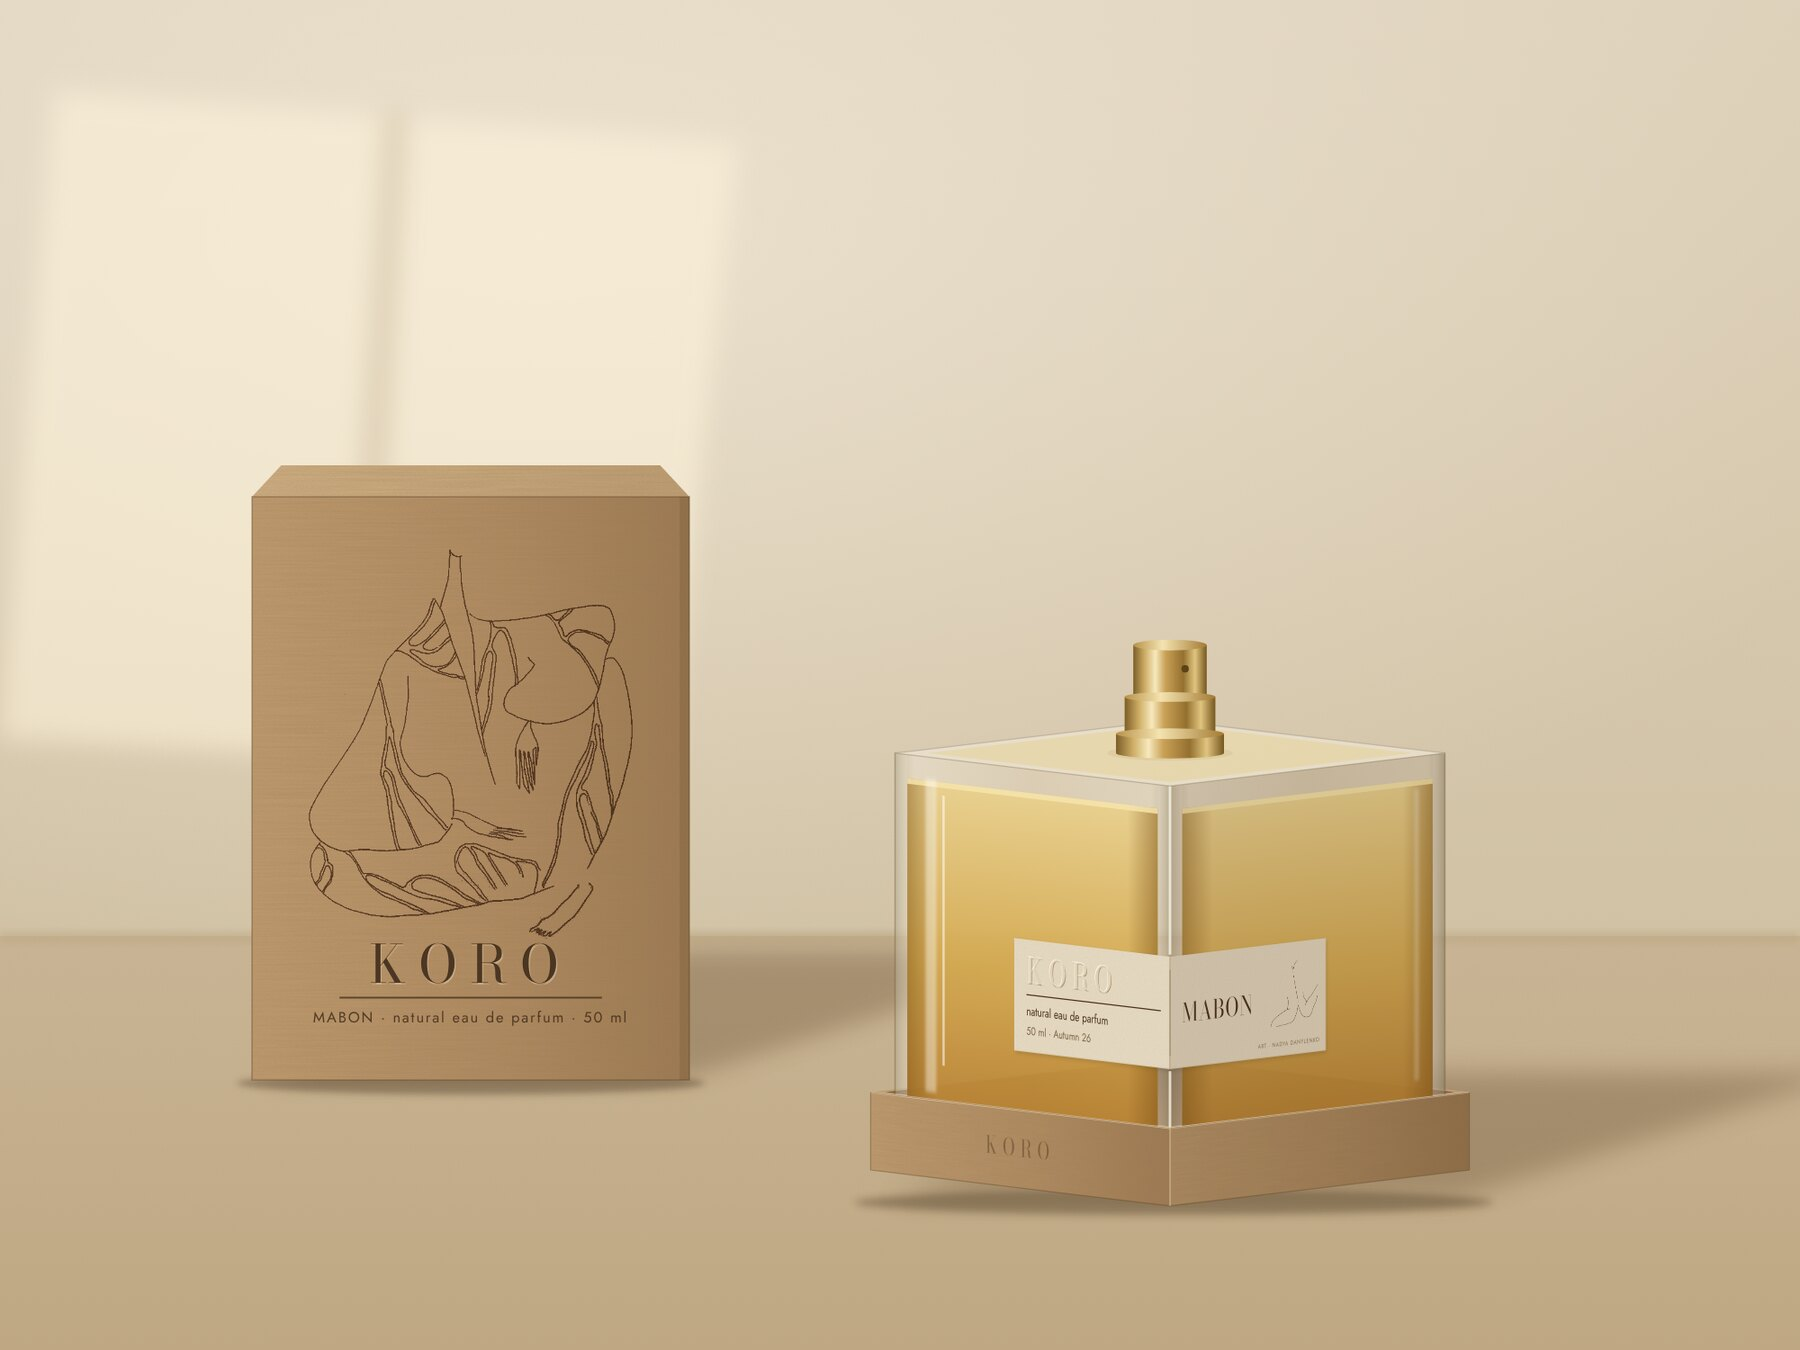
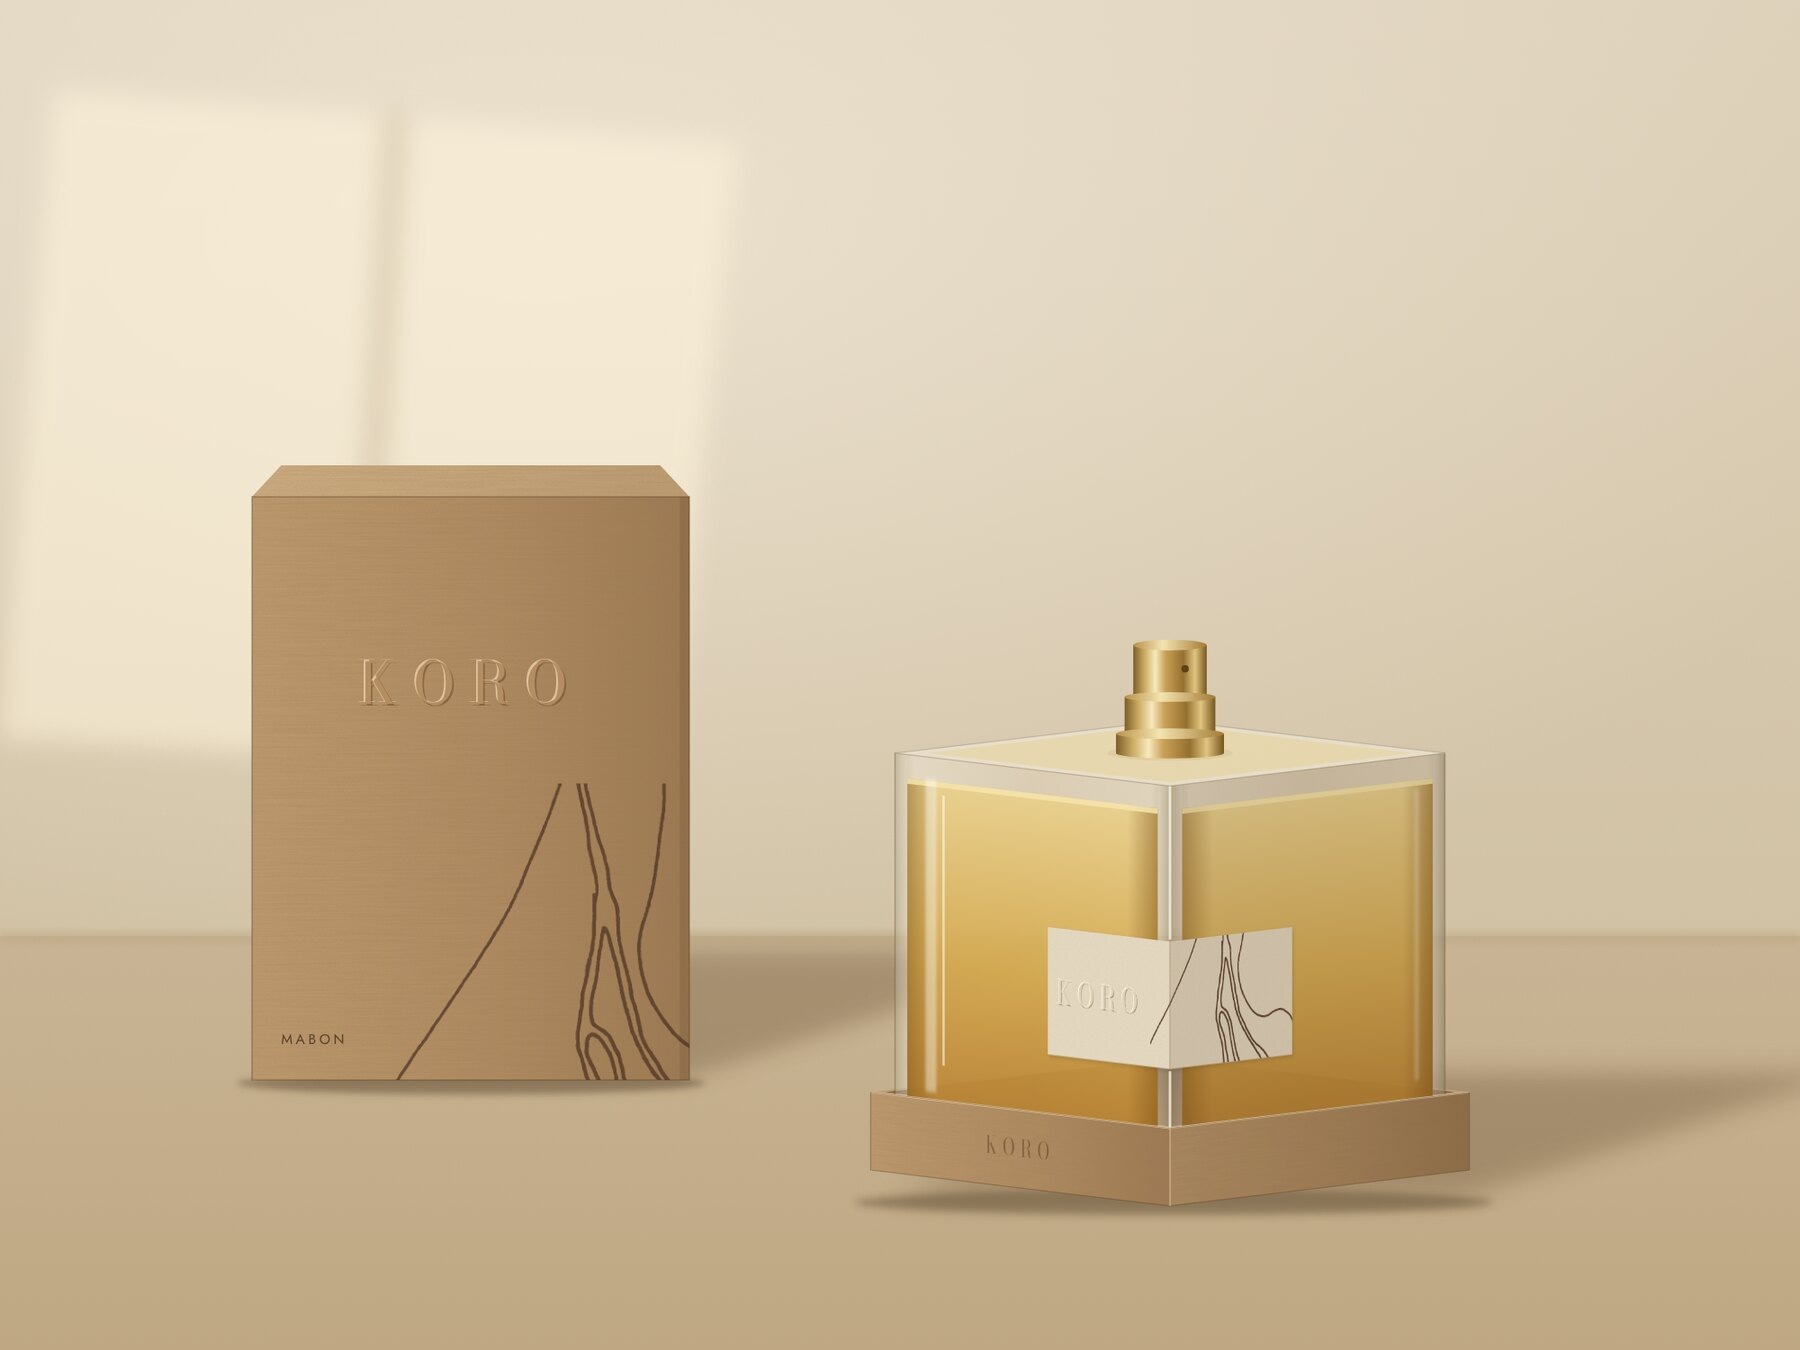
Make the corner sticker and box minimal
Keeps only the corner placement from Nasomatto. Sticker: blind-embossed
KORO on one face, a close detail of Nadya Danylenko's line on the other,
running off the edge and over the fold. Box: embossed KORO, the same
detail in brown ink, scent name in small type.

Claude-Session: https://claude.ai/code/session_01LqzMwEUPk3cGfVNeK7XBCw

Changed region(s): [[0.1556, 0.4356, 0.3733, 0.8089], [0.56, 0.6844, 0.7467, 0.7778], [0.1556, 0.7467, 0.1867, 0.7778]]

diff --git a/design/packaging/render.html b/design/packaging/render.html
@@ -91,27 +91,25 @@ function emb(txt, x, y, size, ls, anchor = "start") {
     <text x="${x - .7}" y="${y - .7}" text-anchor="${anchor}" class="didot" font-size="${size}" letter-spacing="${ls}" fill="#fffaf0">${txt}</text>
     <text x="${x}" y="${y}" text-anchor="${anchor}" class="didot" font-size="${size}" letter-spacing="${ls}" fill="#e0d2b5">${txt}</text>`;
 }
-const SW = 204, SH = 104, SY = -222;   // sticker half size + top position on the face
-function stickerLeft(vol = "50 ml") {
+// Minimal sticker: blind-embossed KORO on the left face, a close detail of Nadya's line on the right.
+// The detail runs off the sticker's edges and just over the fold onto the left face.
+const SW = 160, SH = 118, SY = -236, ART = { w: 214, h: 201, x: SW - 26, y: -46 };
+let clipN = 0;
+function stickerHalf(side) {
+  const id = `st${clipN++}`;
+  const artX = side === "left" ? ART.x : ART.x - SW;
   return `<g>
+    <clipPath id="${id}"><rect width="${SW}" height="${SH}"/></clipPath>
     <rect x="1.4" y="2" width="${SW}" height="${SH}" fill="#4f3c22" opacity=".22" filter="url(#hl)"/>
     <rect width="${SW}" height="${SH}" fill="#e9ddc6" filter="url(#paper)"/>
-    ${emb("KORO", 16, 40, 32, 7)}
-    <line x1="16" y1="51" x2="${SW - 12}" y2="51" stroke="${INK}" stroke-width="1"/>
-    <text x="16" y="70" class="sans" font-size="11.5" fill="${INK}">natural eau de parfum</text>
-    <text x="16" y="88" class="sans" font-size="10.5" fill="#7c6547">${vol} · Autumn 26</text>
+    <g clip-path="url(#${id})">
+      <image href="detail-art.png" x="${artX}" y="${ART.y}" width="${ART.w}" height="${ART.h}" opacity=".9"/>
+    </g>
+    ${side === "left" ? emb("KORO", 68, SH / 2 + 11, 30, 7, "middle") : ""}
   </g>`;
 }
-function stickerRight(scent = "MABON") {
-  return `<g>
-    <rect x="1.4" y="2" width="${SW}" height="${SH}" fill="#4f3c22" opacity=".22" filter="url(#hl)"/>
-    <rect width="${SW}" height="${SH}" fill="#e9ddc6" filter="url(#paper)"/>
-    <line x1="0" y1="12" x2="0" y2="${SH - 12}" stroke="${RULE}" stroke-width=".8"/>
-    <text x="16" y="62" class="didot" font-size="24" letter-spacing="1" fill="${INK}">${scent}</text>
-    <image href="line-art.png" x="132" y="12" width="62" height="70" preserveAspectRatio="xMidYMid meet" opacity=".92"/>
-    <text x="${SW - 8}" y="${SH - 9}" text-anchor="end" class="sans" font-size="5.6" letter-spacing=".7" fill="#8b7656">ART · NADYA DANYLENKO</text>
-  </g>`;
-}
+const stickerLeft = () => stickerHalf("left");
+const stickerRight = () => stickerHalf("right");
 
 // ---------- the square bottle, turned so a corner faces the viewer ----------
 // real face 360 wide x 380 high (KORO's existing bottle); E = how much of the top we see
@@ -170,13 +168,16 @@ function sprayer(cx, topY) {
 
 // ---------- rigid kraft box, front-on, Nadya's drawing printed on the lid ----------
 function boxFace(w, h, scent = "MABON") {
-  const artW = w * .74, artH = artW * 715 / 595;
+  const id = `bx${clipN++}`, aw = w * 1.05, ah = aw * 1008 / 1072;
   return `
-    <image href="embrace-art.png" x="${(w - artW) / 2}" y="${-h + h * .07}" width="${artW}" height="${artH}" opacity=".78" style="mix-blend-mode:multiply"/>
-    <text x="${w / 2 + .6}" y="${-h * .17 + .8}" text-anchor="middle" class="didot" font-size="${w * .12}" letter-spacing="${w * .03}" fill="#fff0d6" opacity=".35">KORO</text>
-    <text x="${w / 2}" y="${-h * .17}" text-anchor="middle" class="didot" font-size="${w * .12}" letter-spacing="${w * .03}" fill="#3b2716" opacity=".88">KORO</text>
-    <line x1="${w * .2}" y1="${-h * .17 + 9}" x2="${w * .8}" y2="${-h * .17 + 9}" stroke="#3b2716" stroke-opacity=".7"/>
-    <text x="${w / 2}" y="${-h * .17 + 24}" text-anchor="middle" class="sans" font-size="${w * .034}" letter-spacing="1" fill="#3b2716" opacity=".8">${scent} · natural eau de parfum · 50 ml</text>`;
+    <clipPath id="${id}"><rect x="0" y="${-h}" width="${w}" height="${h}"/></clipPath>
+    <g clip-path="url(#${id})">
+      <image href="detail-art.png" x="${w * .32}" y="${-h * .52}" width="${aw}" height="${ah}" opacity=".72" style="mix-blend-mode:multiply"/>
+    </g>
+    <text x="${w / 2 + 1}" y="${-h * .66 + 1.2}" text-anchor="middle" class="didot" font-size="${w * .13}" letter-spacing="${w * .035}" fill="#6b4c2c" opacity=".55">KORO</text>
+    <text x="${w / 2 - 1}" y="${-h * .66 - 1}" text-anchor="middle" class="didot" font-size="${w * .13}" letter-spacing="${w * .035}" fill="#f2dcb6" opacity=".7">KORO</text>
+    <text x="${w / 2}" y="${-h * .66}" text-anchor="middle" class="didot" font-size="${w * .13}" letter-spacing="${w * .035}" fill="#b48d62">KORO</text>
+    <text x="18" y="-22" class="sans" font-size="${w * .032}" letter-spacing="2" fill="#3b2716" opacity=".75">${scent}</text>`;
 }
 function closedBox(x, y, w, h, scent = "MABON") {
   const t = w * .072, i = w * .067, baseBand = 14;
@@ -190,7 +191,7 @@ function closedBox(x, y, w, h, scent = "MABON") {
     <rect x="0" y="${-h}" width="${w}" height="${h - baseBand}" fill="none" stroke="#5e4428" stroke-opacity=".35"/>
     <rect x="0" y="${-h}" width="5" height="${h - baseBand}" fill="#fff" opacity=".12"/>
     <rect x="${w - 6}" y="${-h}" width="6" height="${h - baseBand}" fill="#3d2a14" opacity=".12"/>
-    ${boxFace(w, h + 6, scent)}
+    <g transform="translate(0 ${-baseBand})">${boxFace(w, h - baseBand, scent)}</g>
   </g>`;
 }
 function lid(x, y, w, h, scent) {

diff --git a/index.html b/index.html
@@ -195,7 +195,7 @@
     <!-- Featured seasonal scent -->
     <section class="feature" id="mabon">
       <figure class="feature-media reveal">
-        <img src="assets/img/koro-bottle.jpg" alt="The square KORO bottle turned to its corner, filled with amber MABON, with a beige sticker wrapped around the corner" width="1400" height="1400" loading="lazy">
+        <img src="assets/img/koro-bottle.jpg" alt="The square KORO bottle turned to its corner, with a beige sticker folded over the corner: embossed KORO on one side, a detail of Nadya Danylenko’s line drawing on the other" width="1400" height="1400" loading="lazy">
       </figure>
       <div class="feature-copy reveal">
         <p class="eyebrow">The scent of the season</p>
@@ -226,11 +226,11 @@
       <div class="section-head reveal">
         <p class="eyebrow">The bottle &amp; the box</p>
         <h2 class="display display--md">Our square bottle, newly dressed</h2>
-        <p>We kept the heavy square bottle our perfumes have always lived in, with its thick walls and deep glass base. The label is new: a beige sticker folded around the bottle’s front corner, with KORO embossed on one side and the scent name and a line by Nadya Danylenko on the other.</p>
+        <p>We kept the heavy square bottle our perfumes have always lived in, with its thick walls and deep glass base. The label is new: a plain beige sticker folded over the bottle’s front corner. KORO is embossed on one side; on the other, a close detail of a drawing by Nadya Danylenko runs off the edge.</p>
       </div>
 
       <figure class="pack-wide reveal">
-        <img src="assets/img/koro-box-closed.jpg" alt="A rigid kraft box printed with a line drawing by Nadya Danylenko beside the square MABON bottle" width="1800" height="1350" loading="lazy">
+        <img src="assets/img/koro-box-closed.jpg" alt="A rigid kraft box with blind-embossed KORO and a detail of Nadya Danylenko’s drawing, beside the square MABON bottle" width="1800" height="1350" loading="lazy">
       </figure>
 
       <div class="pack-row">
@@ -242,7 +242,7 @@
           <p>Natural perfume changes in sunlight. Every bottle arrives in a rigid kraft box with a lift-off lid, made to live on your dressing table, so the perfume can go back into the dark between wears.</p>
           <ul class="pack-list">
             <li><span class="cap">Board</span>Opaque rigid kraft that keeps daylight off the perfume</li>
-            <li><span class="cap">Print</span>Nadya Danylenko’s drawing in brown ink on the lid</li>
+            <li><span class="cap">Print</span>KORO blind-embossed, with a detail of Nadya’s line in brown ink</li>
             <li><span class="cap">Fit</span>A fitted base holds the square bottle upright</li>
             <li><span class="cap">Lid</span>Lifts off and settles back with a soft close</li>
             <li><span class="cap">Material</span>Paper and board only, nothing plastic</li>

diff --git a/design/packaging/README.md b/design/packaging/README.md
@@ -3,10 +3,10 @@
 Vector source for the Autumn 26 bottle and box images in `assets/img/koro-*.jpg`.
 
 - **Bottle**: KORO's existing square bottle (shape unchanged), shown corner-on without the overcap: gold crimp collar and sprayer.
-- **Label**: beige sticker folded around the front corner (Nasomatto-style placement). Left face: blind-embossed KORO, rule, "natural eau de parfum", volume and season. Right face: scent name and a line drawing by Nadya Danylenko (`line-art.png`).
-- **Box**: rigid kraft, two-piece with a lift-off lid, Nadya's drawing (`embrace-art.png`) printed in brown ink with KORO beneath; keeps the bottle out of daylight.
+- **Label**: minimal beige sticker folded over the front corner (corner placement inspired by Nasomatto). Left face: blind-embossed KORO only. Right face: a close detail of Nadya Danylenko's line drawing (`detail-art.png`), bleeding off the edges and just over the fold.
+- **Box**: rigid kraft, two-piece with a lift-off lid; blind-embossed KORO, the same drawing detail in brown ink running off the lid edge, scent name in small type. Keeps the bottle out of daylight.
 
-To change the scent name or volume, edit `stickerLeft()` / `stickerRight()` / `boxFace()` in `render.html`, then render:
+To change the scent name or volume, edit `stickerHalf()` / `boxFace()` in `render.html`, then render:
 
 ```sh
 NODE_PATH=$(npm root -g) node render.js "$PWD"   # writes s1.png, s2.png, s3.png
